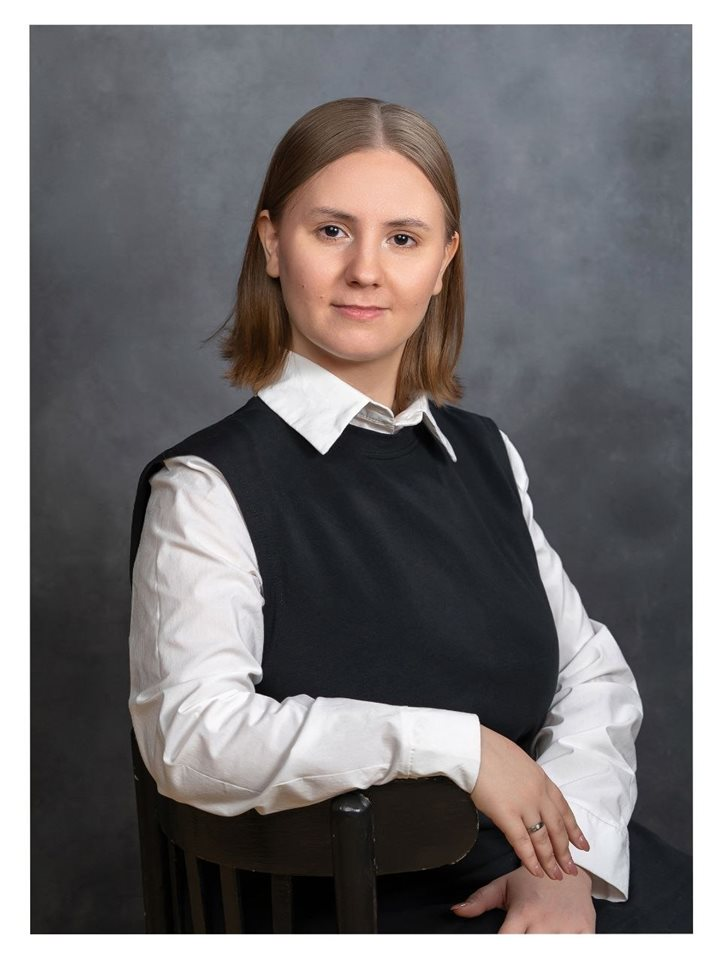
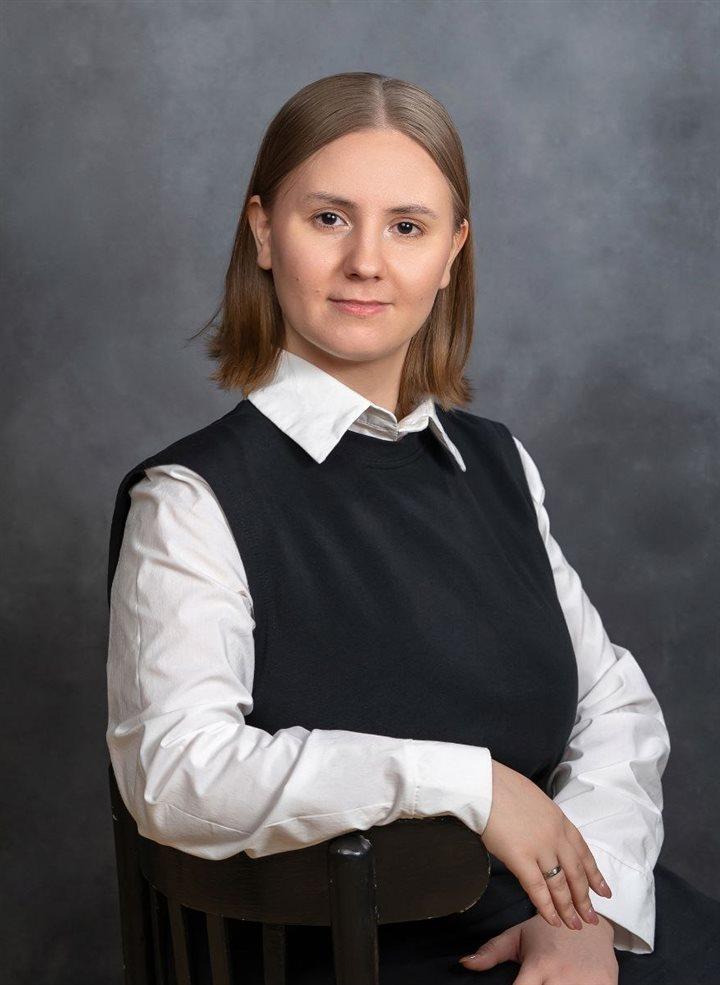
Карусель: одинаковый отступ на шве зацикливания; убрана белая рамка с фото Анастасии
- Carousel.css: отступ между слайдами переведён с flex-gap на padding-left слайда + отрицательный margin трека (рецепт embla для loop) - раньше на шве последний/первый слайд отступ схлопывался
- teacher-anastasia.jpg: обрезана белая рамка исходника со всех сторон, пересобрано

diff --git a/client/src/components/Carousel.css b/client/src/components/Carousel.css
@@ -10,13 +10,19 @@
 }
 
 .carousel__track {
+  /* отступ между слайдами — через padding, а не gap: у embla в режиме
+     loop клонируются крайние слайды, и flex-gap на шве зацикливания
+     иногда «схлопывается». padding-left держит одинаковый отступ
+     всегда, включая шов между последним и первым слайдом. */
+  --slide-gap: clamp(16px, 2.4vw, 28px);
   display: flex;
-  gap: clamp(16px, 2.4vw, 28px);
   align-items: stretch;
+  margin-left: calc(-1 * var(--slide-gap));
 }
 
 .carousel__track > * {
   flex: 0 0 auto;
+  padding-left: var(--slide-gap);
 }
 
 /* --- Боковые стрелки --- */

diff --git a/client/src/sections/Teachers.css b/client/src/sections/Teachers.css
@@ -24,7 +24,7 @@
 
 /* побольше воздуха между карточками преподов в карусели */
 .tch__carousel .carousel__track {
-  gap: clamp(22px, 3.2vw, 40px);
+  --slide-gap: clamp(22px, 3.2vw, 40px);
 }
 
 /* карточки категорий — в том же вертикальном формате, что и карточки преподов */
